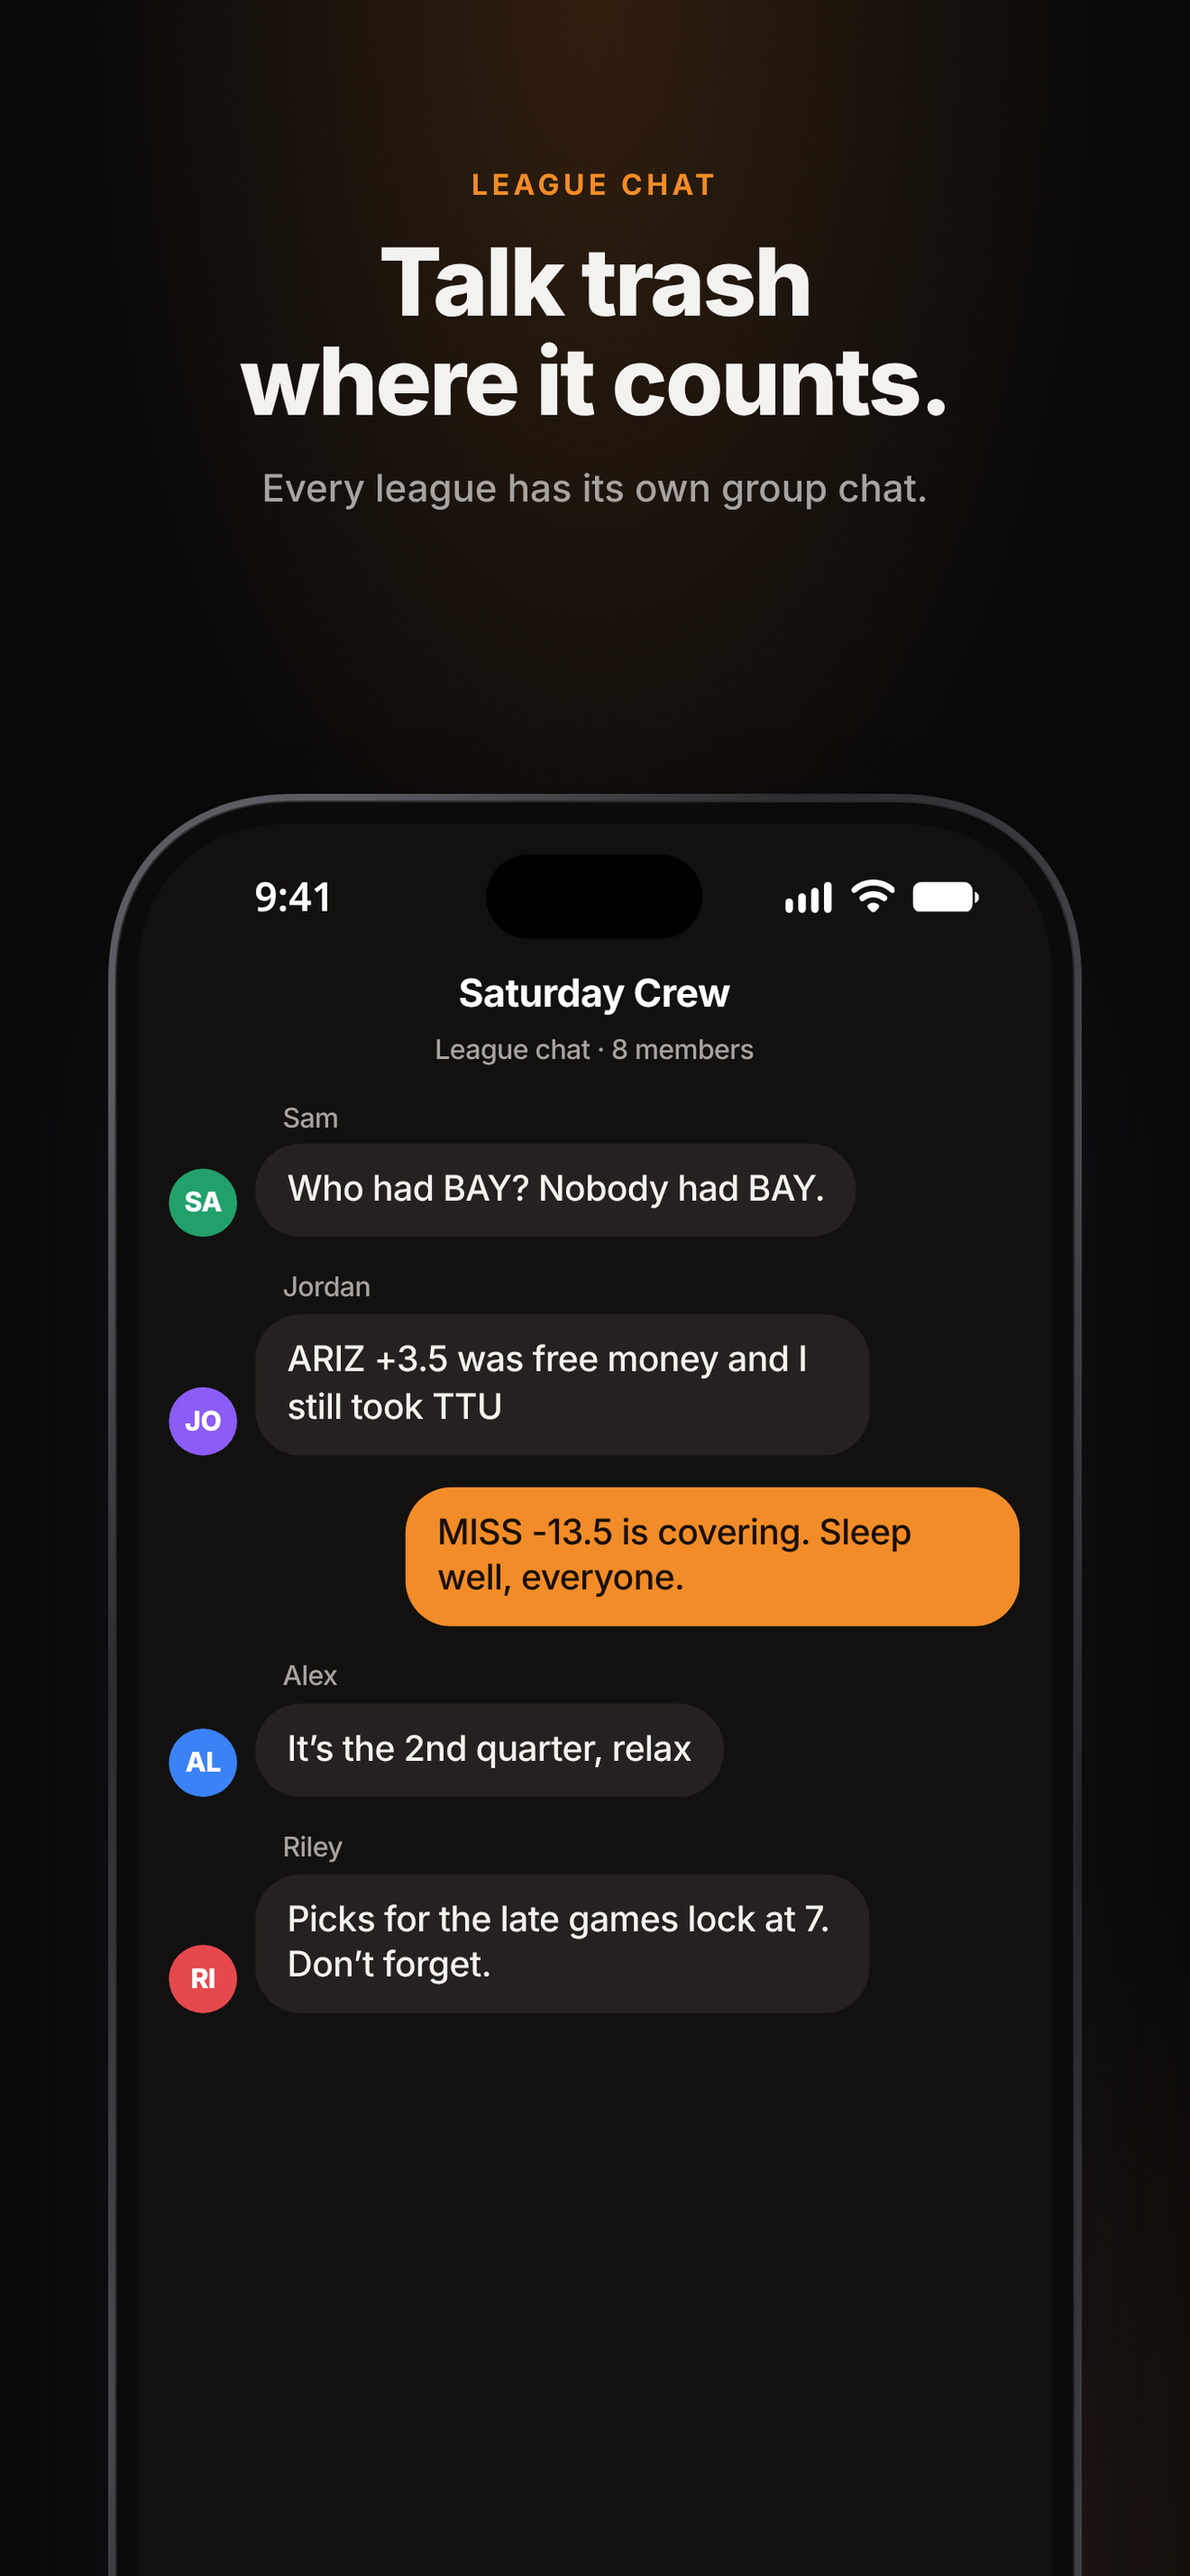
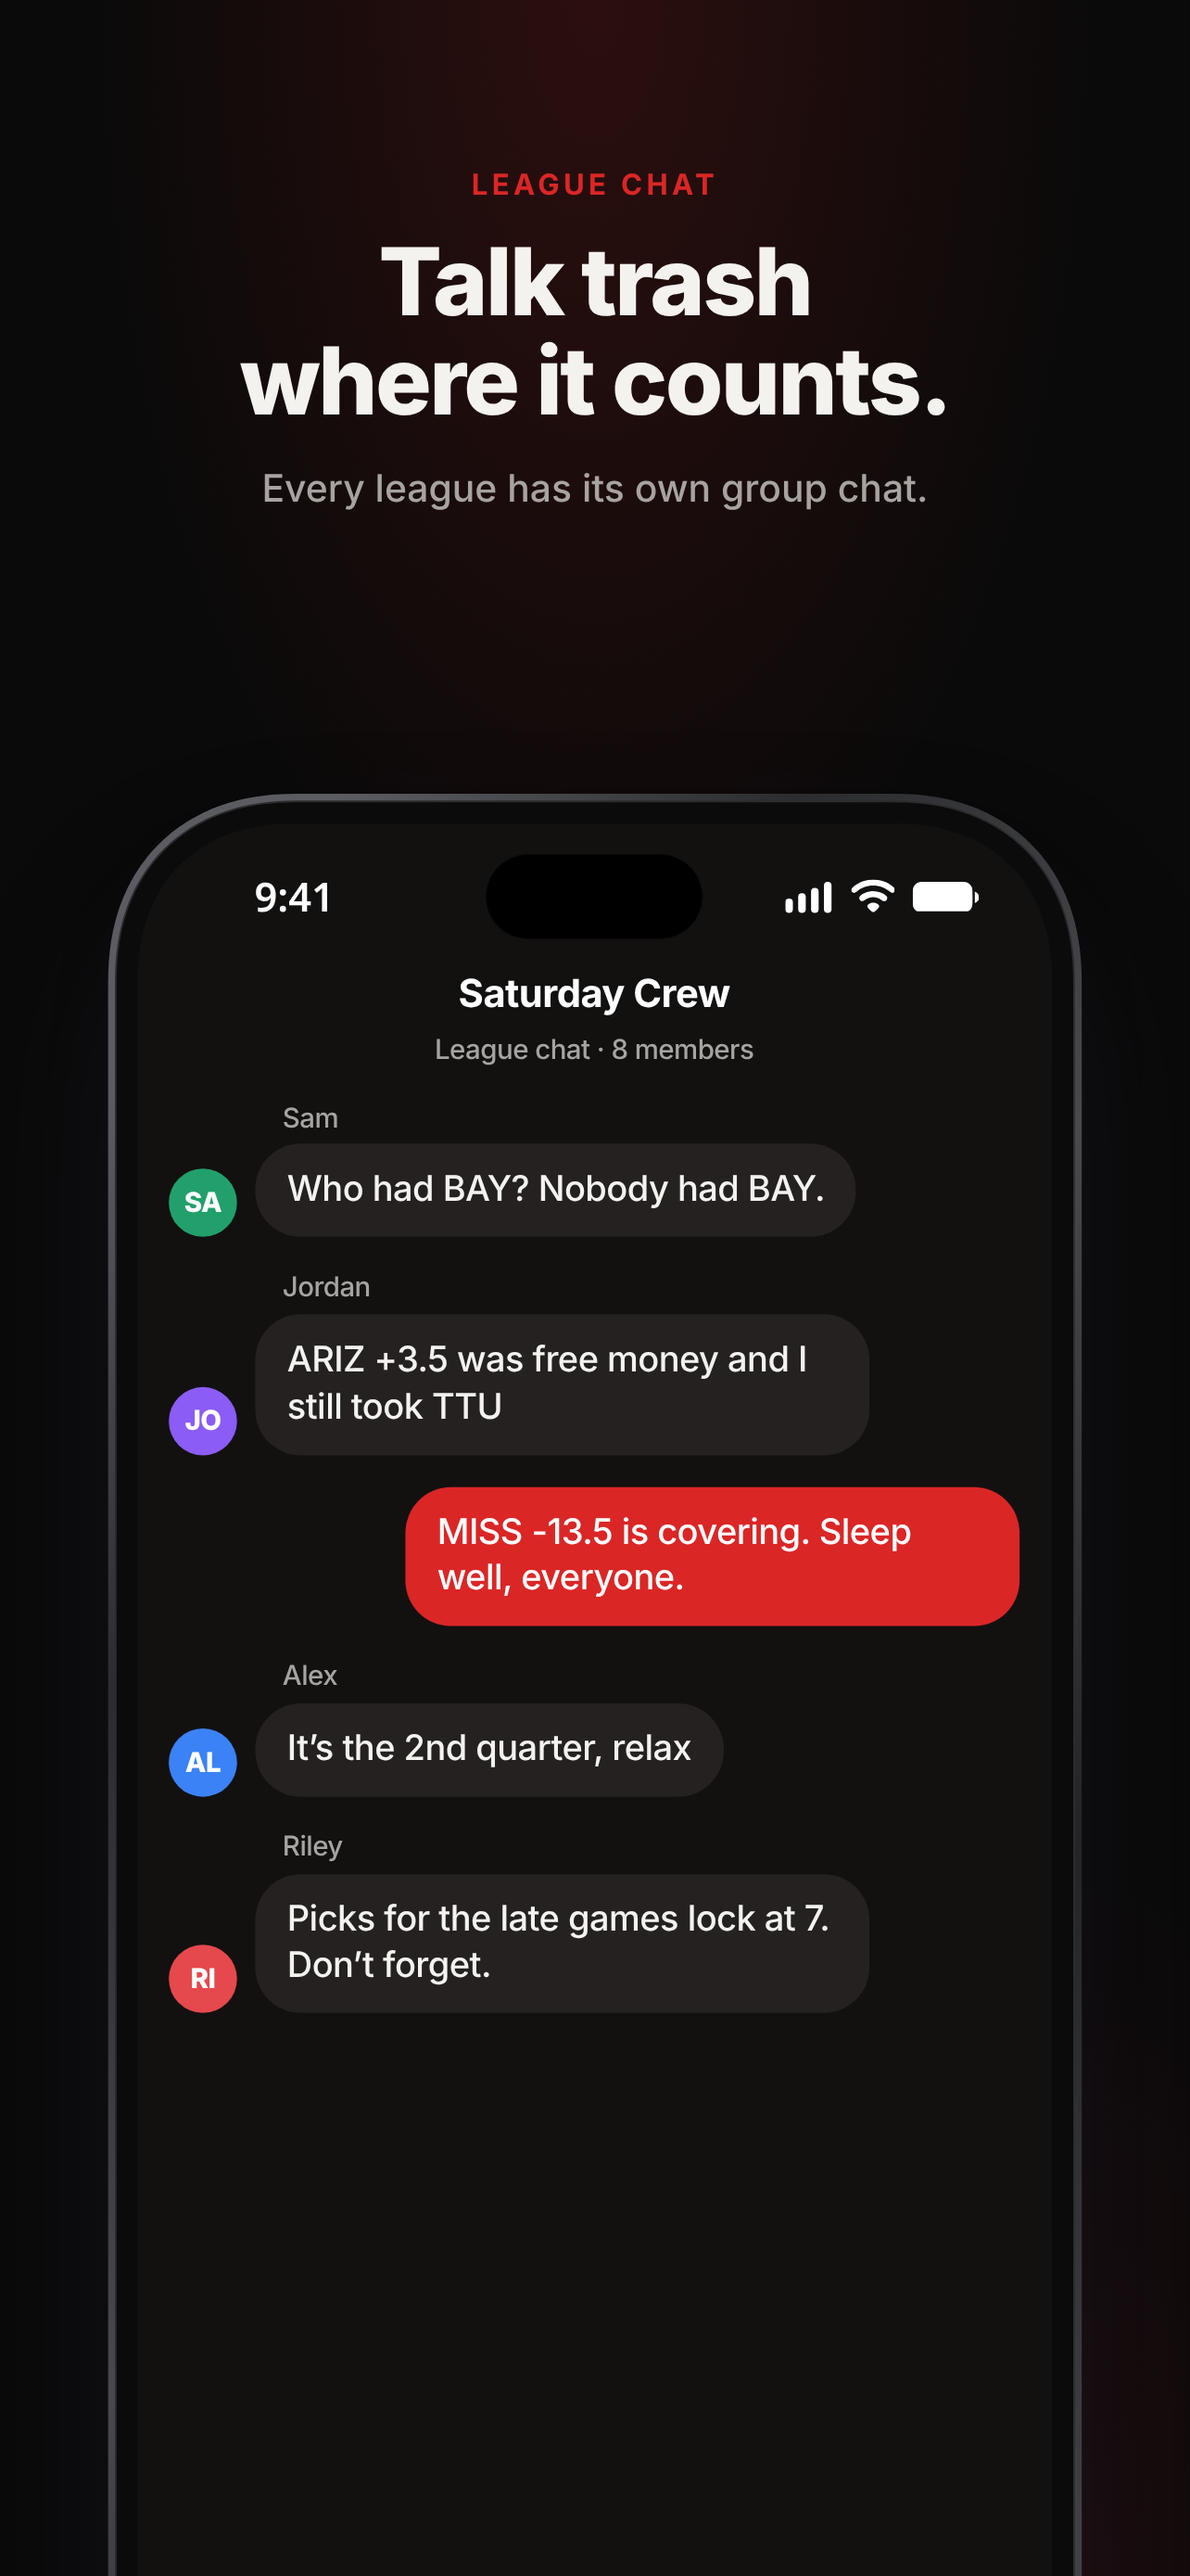
App Store: red CFB Pickems screenshot set (10 x 6.9/6.5/iPad 13) + product page asset upload workflow (dry_run default)

diff --git a/scripts/asc_product_page_assets.py b/scripts/asc_product_page_assets.py
@@ -1,0 +1,150 @@
+#!/usr/bin/env python3
+"""Upload and place the product page Header and Search Results images.
+
+Uses the App Store Connect API Asset Library (API 4.5.1+):
+  GET  /v1/apps/{app}/assetLibrary
+  POST /v1/appAssetLibraryImages (category CREATIVE_ASSETS)
+  PUT  bytes to each uploadOperations entry
+  PATCH /v1/appAssetLibraryImages/{id} uploaded=true, poll until COMPLETE
+  POST /v1/appAssetLibraryPlacements (PRODUCT_PAGE_HEADER_ASSET,
+       APP_STORE_SEARCH_RESULTS_ASSET) on every localization of the version.
+
+Environment:
+  ASC_KEY_ID, ASC_ISSUER_ID, ASC_KEY_P8   same secrets as submit-review.yml
+  ASC_VERSION    editable App Store version, for example 3.6.12
+  ASC_DRY_RUN    true (default): read-only, prints what it would do.
+
+Never submits for review. Secrets and the JWT are never printed.
+"""
+
+from __future__ import annotations
+
+import hashlib
+import os
+import sys
+import time
+from pathlib import Path
+
+import requests
+
+sys.path.insert(0, str(Path(__file__).resolve().parent))
+from asc_submit_review import (  # noqa: E402
+    APP_ID, EDITABLE_VERSION_STATES, AscClient, AscFailure, assert_ec_key,
+    load_p8, log, note_secret, parse_bool,
+)
+
+ROOT = Path(__file__).resolve().parent.parent / "fastlane" / "product-page"
+ASSETS = [
+    ("PRODUCT_PAGE_HEADER_ASSET", ROOT / "header-B-3840x1646.png", "CFB Pickems header (red B)"),
+    ("APP_STORE_SEARCH_RESULTS_ASSET", ROOT / "search-A-3840x2560.png", "CFB Pickems search results (red A)"),
+]
+
+
+def find_version(client: AscClient, version: str) -> dict:
+    _, body = client.request("GET", f"/v1/apps/{APP_ID}/appStoreVersions",
+                             params={"filter[platform]": "IOS", "filter[versionString]": version, "limit": 5})
+    rows = (body or {}).get("data") or []
+    if not rows:
+        raise AscFailure(f"No iOS App Store version {version}.")
+    v = rows[0]
+    state = v["attributes"].get("appVersionState") or v["attributes"].get("appStoreState")
+    log(f"Version {version}: {state}")
+    if state not in EDITABLE_VERSION_STATES:
+        raise AscFailure(f"Version {version} is {state}, not editable.")
+    return v
+
+
+def upload(client: AscClient, library_id: str, path: Path, ref: str) -> str:
+    data = path.read_bytes()
+    _, body = client.request("POST", "/v1/appAssetLibraryImages", json_body={"data": {
+        "type": "appAssetLibraryImages",
+        "attributes": {"fileName": path.name, "fileSize": len(data),
+                       "category": "CREATIVE_ASSETS", "referenceName": ref},
+        "relationships": {"assetLibrary": {"data": {"type": "appAssetLibraries", "id": library_id}}},
+    }})
+    image = body["data"]
+    for op in image["attributes"].get("uploadOperations") or []:
+        chunk = data[op["offset"]:op["offset"] + op["length"]]
+        headers = {h["name"]: h["value"] for h in op.get("requestHeaders") or []}
+        r = requests.request(op.get("method", "PUT"), op["url"], data=chunk, headers=headers, timeout=120)
+        if r.status_code >= 300:
+            raise AscFailure(f"Upload chunk for {path.name} failed: HTTP {r.status_code}")
+    attrs = {"uploaded": True}
+    client.request("PATCH", f"/v1/appAssetLibraryImages/{image['id']}", json_body={"data": {
+        "type": "appAssetLibraryImages", "id": image["id"], "attributes": attrs}})
+    for _ in range(40):
+        _, b = client.request("GET", f"/v1/appAssetLibraryImages/{image['id']}")
+        a = b["data"]["attributes"]
+        state = a.get("state") or (a.get("assetDeliveryState") or {}).get("state")
+        if state in ("COMPLETE", "READY", "PROCESSED"):
+            break
+        if state == "FAILED":
+            raise AscFailure(f"{path.name} processing failed: {a}")
+        time.sleep(5)
+    else:
+        raise AscFailure(f"{path.name} did not finish processing (last state {state}).")
+    log(f"Uploaded {path.name} -> image {image['id']} ({state})")
+    return image["id"]
+
+
+def main() -> int:
+    dry = parse_bool(os.environ.get("ASC_DRY_RUN"), True)
+    version = (os.environ.get("ASC_VERSION") or "").strip()
+    if not version:
+        raise AscFailure("ASC_VERSION is required.")
+    for _, path, _ in ASSETS:
+        if not path.is_file():
+            raise AscFailure(f"Missing {path}")
+        log(f"{path.name}: {path.stat().st_size} bytes, sha256 {hashlib.sha256(path.read_bytes()).hexdigest()[:12]}")
+    for n in ("ASC_KEY_ID", "ASC_ISSUER_ID", "ASC_KEY_P8"):
+        note_secret(os.environ.get(n))
+    pem = load_p8(os.environ.get("ASC_KEY_P8", ""))
+    assert_ec_key(pem)
+    client = AscClient(os.environ["ASC_KEY_ID"], os.environ["ASC_ISSUER_ID"], pem)
+
+    _, lib = client.request("GET", f"/v1/apps/{APP_ID}/assetLibrary")
+    library_id = lib["data"]["id"]
+    log(f"Asset library: {library_id}")
+    v = find_version(client, version)
+    _, locs = client.request("GET", f"/v1/appStoreVersions/{v['id']}/appStoreVersionLocalizations")
+    locs = locs.get("data") or []
+    log("Localizations: " + ", ".join(l["attributes"]["locale"] for l in locs))
+    for loc in locs:
+        _, pl = client.request("GET", f"/v1/appStoreVersionLocalizations/{loc['id']}/placements",
+                               allow_status=(404,))
+        existing = [p["attributes"].get("placementType") for p in ((pl or {}).get("data") or [])]
+        log(f"  {loc['attributes']['locale']} existing placements: {existing or 'none'}")
+
+    if dry:
+        log("DRY RUN: would upload 2 CREATIVE_ASSETS images and place them "
+            f"({', '.join(t for t, _, _ in ASSETS)}) on {len(locs)} localization(s). Nothing changed.")
+        return 0
+
+    for ptype, path, ref in ASSETS:
+        image_id = upload(client, library_id, path, ref)
+        for loc in locs:
+            _, pl = client.request("GET", f"/v1/appStoreVersionLocalizations/{loc['id']}/placements",
+                                   params={"filter[placementType]": ptype}, allow_status=(404,))
+            for old in (pl or {}).get("data") or []:
+                if old["attributes"].get("placementType") == ptype:
+                    client.request("DELETE", f"/v1/appAssetLibraryPlacements/{old['id']}")
+                    log(f"  removed old {ptype} placement on {loc['attributes']['locale']}")
+            client.request("POST", "/v1/appAssetLibraryPlacements", json_body={"data": {
+                "type": "appAssetLibraryPlacements",
+                "attributes": {"placementType": ptype},
+                "relationships": {
+                    "image": {"data": {"type": "appAssetLibraryImages", "id": image_id}},
+                    "appStoreVersionLocalization": {"data": {"type": "appStoreVersionLocalizations", "id": loc["id"]}},
+                },
+            }})
+            log(f"  placed {ptype} on {loc['attributes']['locale']}")
+    log("Done. Not submitted for review.")
+    return 0
+
+
+if __name__ == "__main__":
+    try:
+        sys.exit(main())
+    except AscFailure as e:
+        log(f"ERROR: {e}")
+        sys.exit(1)
